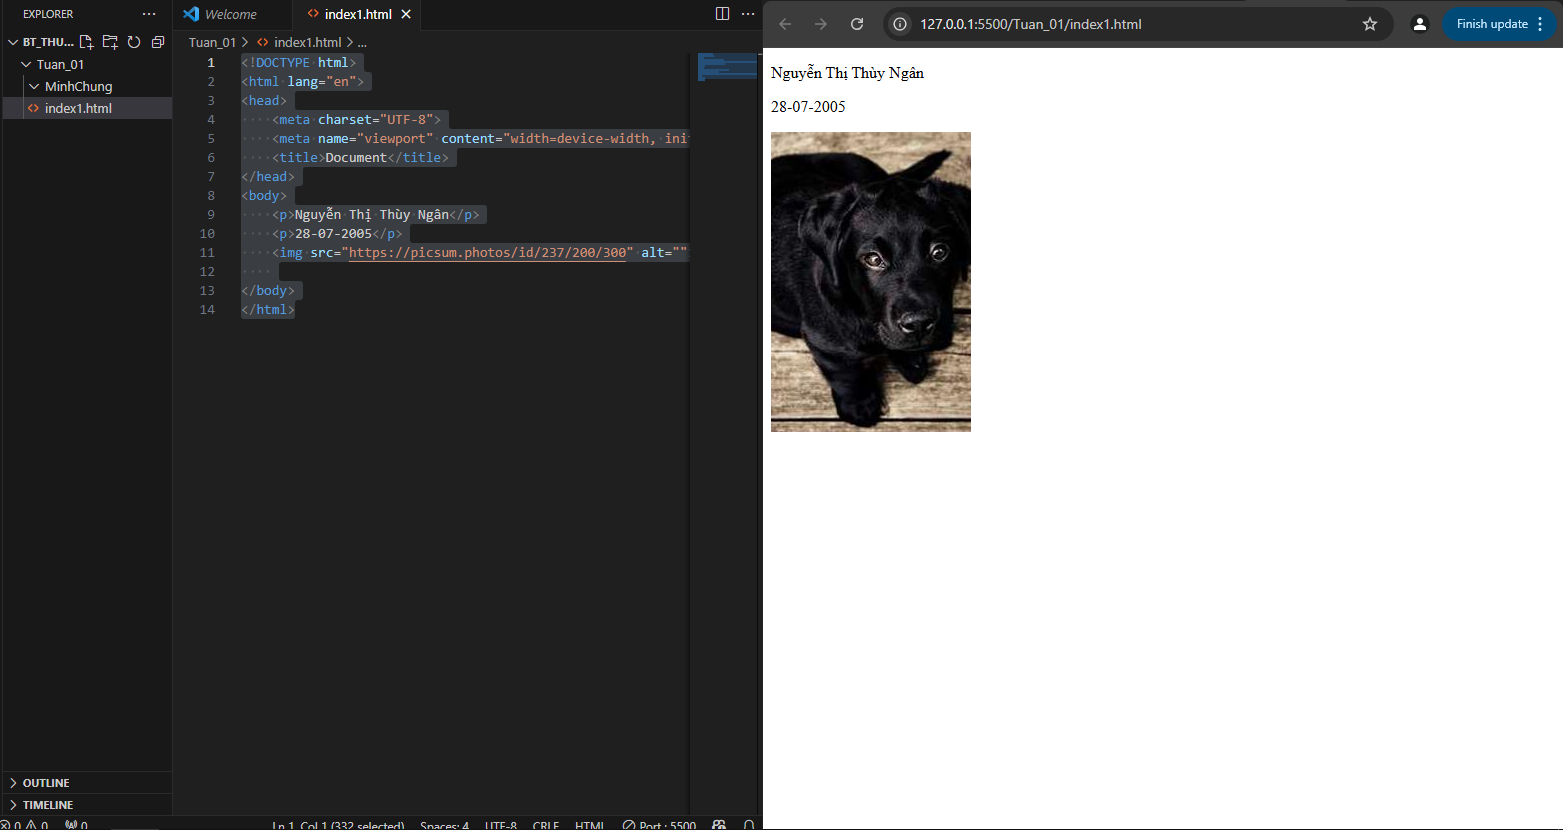
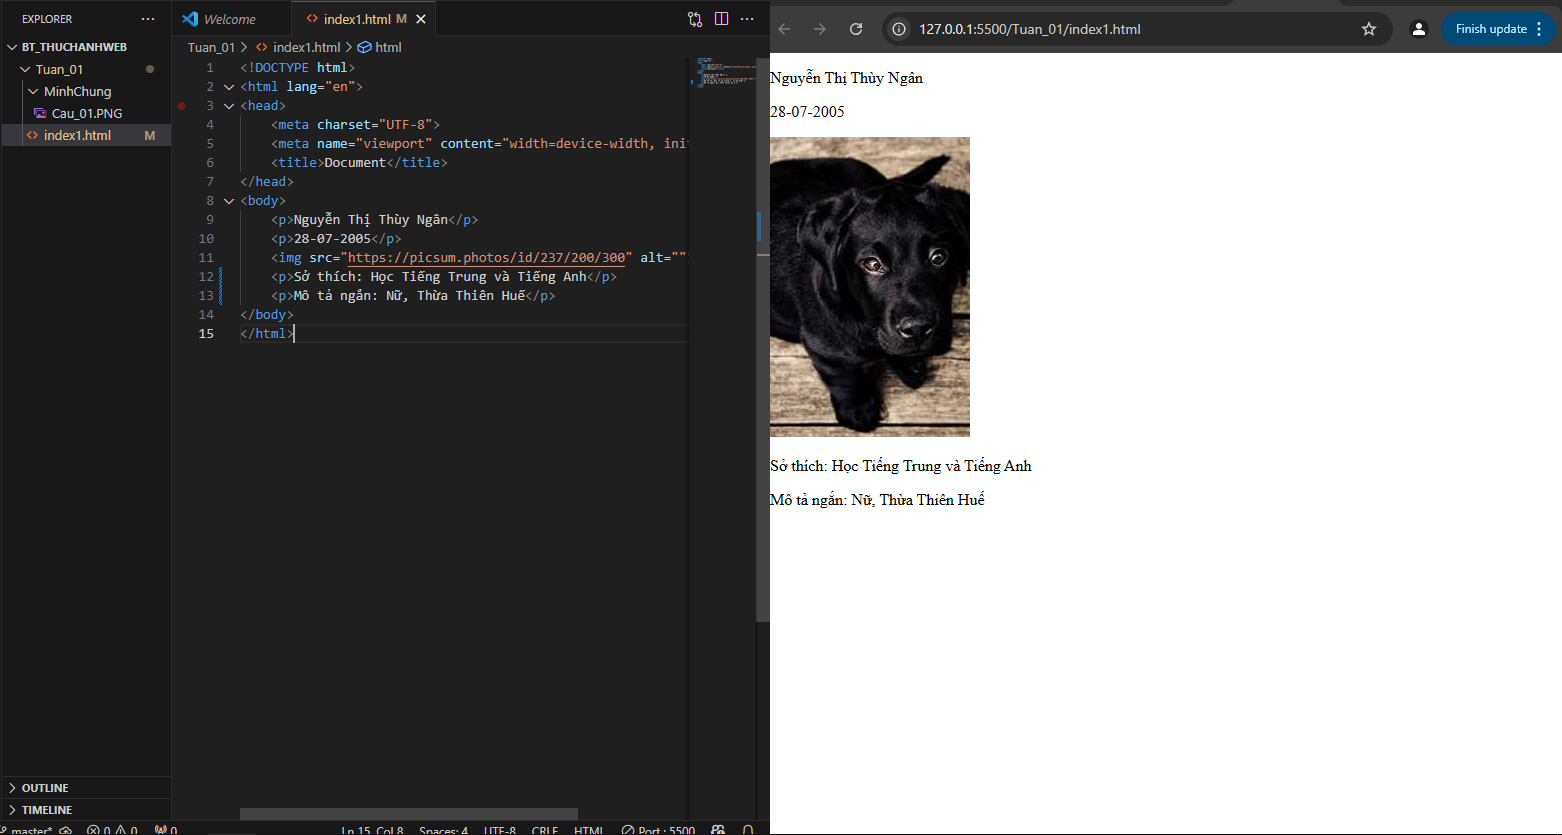
add folder Tuan_01 and file index1.hmtm Cau_01

Changed region(s): [[0.0, 0.0, 1.0, 1.0]]

diff --git a/Tuan_01/index1.html b/Tuan_01/index1.html
@@ -9,6 +9,7 @@
     <p>Nguyễn Thị Thùy Ngân</p>
     <p>28-07-2005</p>
     <img src="https://picsum.photos/id/237/200/300" alt="">
-    
+    <p>Sở thích: Học Tiếng Trung và Tiếng Anh</p>
+    <p>Mô tả ngắn: Nữ, Thừa Thiên Huế</p>
 </body>
 </html>
